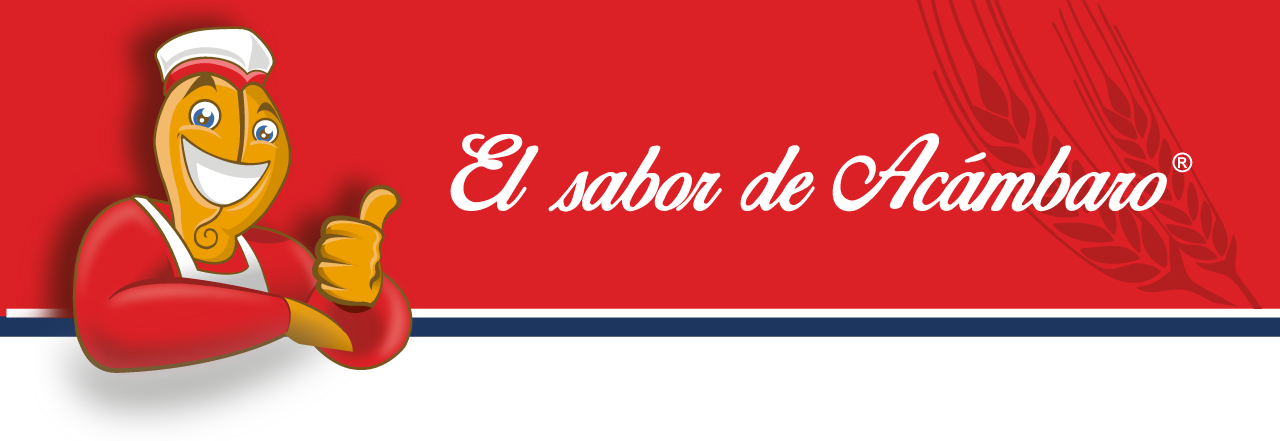
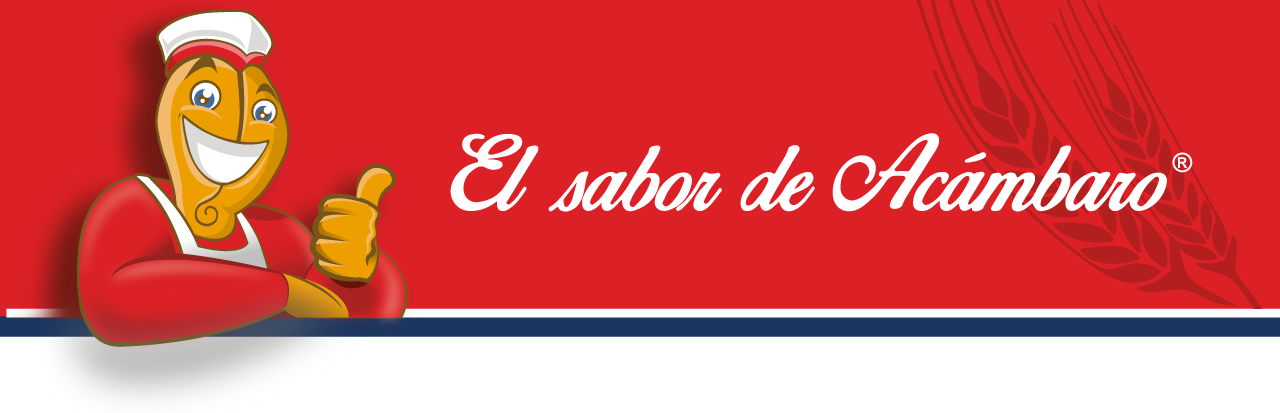
Responsive slider inicial terminado
El logotipo cambia de tamaño según el tamaño del dispositivo.

Changed region(s): [[0.0, 0.0, 1.0, 0.8426]]

diff --git a/index.html b/index.html
@@ -77,8 +77,17 @@
 							<div class="container center">
 								<div class="vertical-middle">
 									<div class="emphasis-title">
-										<h1>
+										<h1 class="visible-lg center">
 												<img src="images/slider/logo.png" data-animate="bounceInDown" data-speed="3000" data-offset="65" alt="Panificadora Tío Sam">
+										</h1>
+										<h1 class="visible-md center">
+												<img src="images/logos/logo-medium.png" data-animate="bounceInDown" data-speed="3000" data-offset="65" alt="Panificadora Tío Sam">
+										</h1>
+										<h1 class="visible-sm center">
+												<img src="images/logos/logo-small.png" data-animate="bounceInDown" data-speed="3000" data-offset="65" alt="Panificadora Tío Sam" style="padding-top:30px;">
+										</h1>
+										<h1 class="visible-xs center">
+												<img src="images/logos/logo-xsmall.png" data-animate="bounceInDown" data-speed="3000" data-offset="65" alt="Panificadora Tío Sam" style="padding-top:30px;">
 										</h1>
 									</div>
 								</div>
@@ -417,12 +426,12 @@
 
 								<div class="widget noborder notoppadding right">
 
-									<a href="#" class="social-icon si-large si-dark si-facebook">
+									<a href="https://www.facebook.com/PanificadoraTioSam.mx" class="social-icon si-large si-dark si-facebook">
 										<i class="icon-facebook"></i>
 										<i class="icon-facebook"></i>
 									</a>
 
-									<a href="#" class="social-icon si-large si-dark si-twitter">
+									<a href="https://twitter.com/pantiosam" class="social-icon si-large si-dark si-twitter">
 										<i class="icon-twitter"></i>
 										<i class="icon-twitter"></i>
 									</a>
@@ -462,9 +471,7 @@
 										Genera por primera vez o reimprime tu factura.
 										Es importante que en cualquiera de los casos cuentes con el ticket de compra
 										asì como Adobe Reader instalado en el equipo para que puedas consultar tus archivos.
-										<br><br>
-										CENTRO DE ATENCION A CLIENTES: (55) 6285-0400 ext. 9011 ó 9153
-										Horario de Facturación: Lunes a Domingo de 12:00 a.m. a 9:00 p.m.</p>
+										</p>
 									</div>
 
 									<p class="text2 text3" data-animate="fadeInUp">*Solo se podrá facturar tickets emitidos durante los primeros 5 días a su expedición. <br>
@@ -496,12 +503,12 @@
 
 					<div class="col_half col_last tright">
 						<div class="fright clearfix">
-							<a href="#" class="social-icon si-small si-borderless si-facebook">
+							<a href="https://www.facebook.com/PanificadoraTioSam.mx" class="social-icon si-small si-borderless si-facebook">
 								<i class="icon-facebook"></i>
 								<i class="icon-facebook"></i>
 							</a>
 
-							<a href="#" class="social-icon si-small si-borderless si-twitter">
+							<a href="https://twitter.com/pantiosam" class="social-icon si-small si-borderless si-twitter">
 								<i class="icon-twitter"></i>
 								<i class="icon-twitter"></i>
 							</a>
